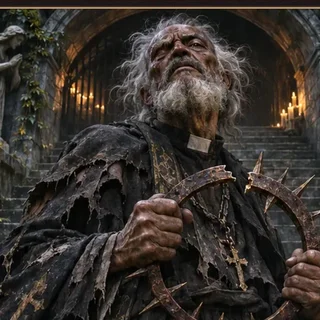
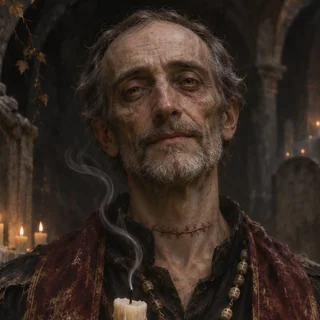
Ritratti definitivi di Kira Statica, Padre Lazzaro e Notaia Vittoria Sale
Claude-Session: https://claude.ai/code/session_01RVXog4kkfbsD9jZhUM7Sev

diff --git a/veilbreak-app/sw.js b/veilbreak-app/sw.js
@@ -1,6 +1,6 @@
 // Service worker: rende il gioco installabile e giocabile offline.
 // Cambia VERSION quando pubblichi una nuova versione dei file.
-const VERSION = "veilbreak-v21";
+const VERSION = "veilbreak-v22";
 const SHELL = [
   "./voci.mjs", "./achievements.mjs", "./descent.mjs", "./scene.mjs", "./intro.mjs", "./advisor.mjs", "./assets/dorsi/velo.webp", "./assets/dorsi/velo-grande.webp", "./assets/dorsi/corte.webp", "./assets/dorsi/corte-grande.webp", "./assets/dorsi/neon.webp", "./assets/dorsi/neon-grande.webp", "./assets/dorsi/santi.webp", "./assets/dorsi/santi-grande.webp", "./assets/dorsi/sottocitta.webp", "./assets/dorsi/sottocitta-grande.webp", "./assets/dorsi/sangue.webp", "./assets/dorsi/sangue-grande.webp", "./assets/dorsi/ossa.webp", "./assets/dorsi/ossa-grande.webp",
   "./icons.mjs", "./synth.mjs", "./sfx.mjs", "./embers.mjs", "./i18n.mjs", "./lingue/en.mjs", "./lingue/de.mjs", "./lingue/es.mjs", "./assets/fonts/cinzel-latin-600-normal.woff2", "./assets/fonts/cinzel-latin-700-normal.woff2", "./assets/fonts/cinzel-latin-900-normal.woff2", "./assets/fonts/cinzel-decorative-latin-900-normal.woff2", "./assets/fonts/cinzel-decorative-latin-700-normal.woff2", "./assets/sfondi/home-hollow.webp", "./assets/sfondi/home-neon.webp", "./assets/sfondi/home-saints.webp", "./assets/sfondi/home-undercity.webp", "./assets/originali-chatgpt/dorso-carte.webp", "./assets/eroi/carte/ada-vesper.webp", "./assets/eroi/carte/iona-volt.webp", "./assets/eroi/carte/elena-voss.webp", "./assets/eroi/carte/mara-sottorotaia.webp", "./assets/eroi/carte/orfeo-grimm.webp", "./assets/eroi/carte/dex-halogen.webp", "./assets/eroi/carte/ottavia.webp", "./assets/eroi/carte/nonna-ines.webp",

diff --git a/veilbreak-app/STATO.md b/veilbreak-app/STATO.md
@@ -70,6 +70,6 @@ Riepilogo per riprendere il lavoro in una nuova sessione.
 - Copertina di avvio in `index.html`: niente lampo del modulo grezzo all'apertura.
 
 ## Prossimi passi
-- Ritratti definitivi dei 3 eroi dell'Atto II (prompt nel PDF).
+- Ritratti definitivi dei 3 eroi dell'Atto II arrivati e inseriti.
 - Correzioni dalle partite dell'utente.
 - Vantaggio di chi gioca per primo ancora intorno al 60% contro il computer.
